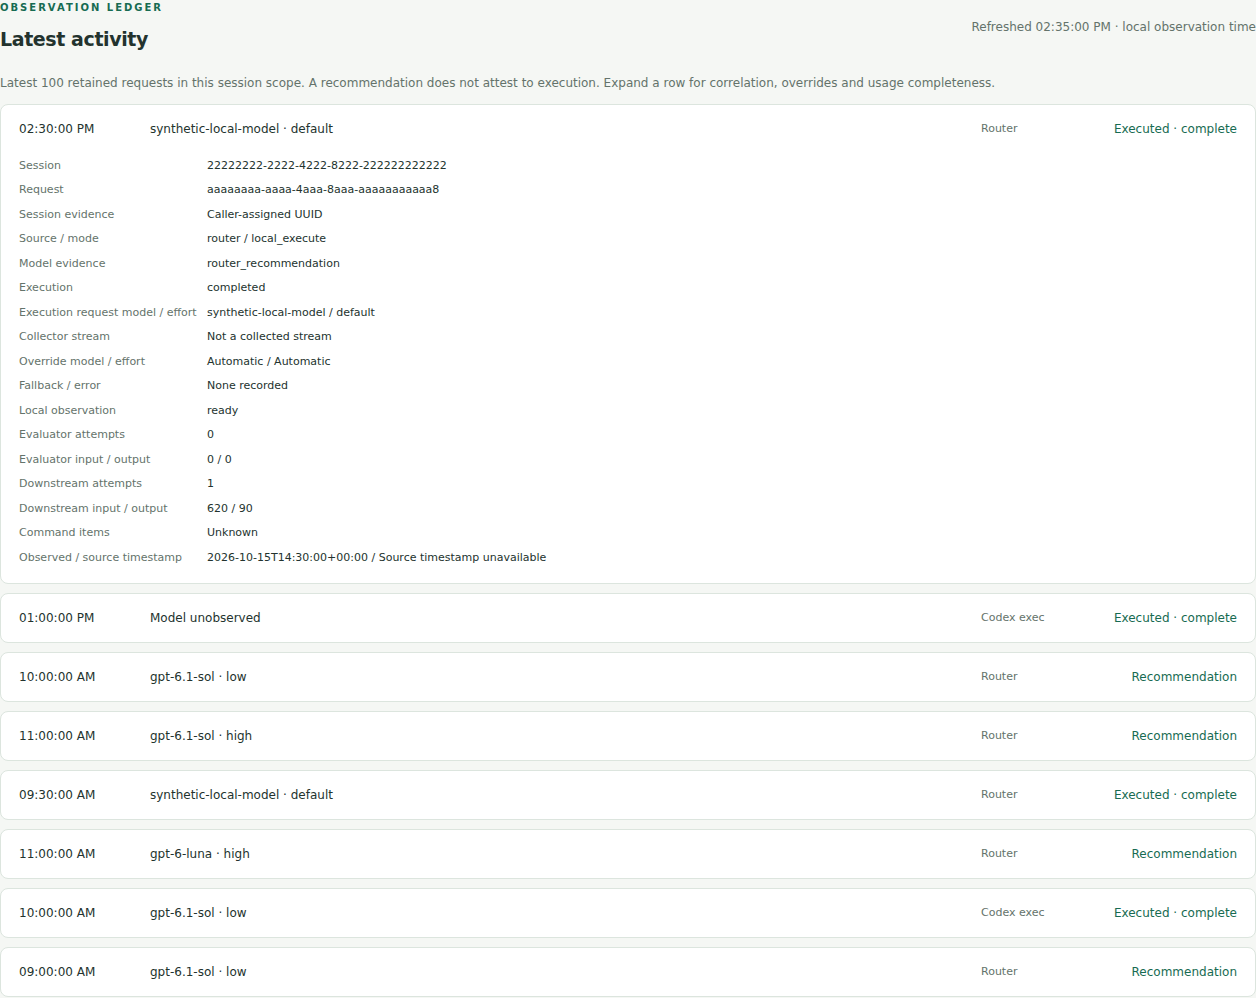
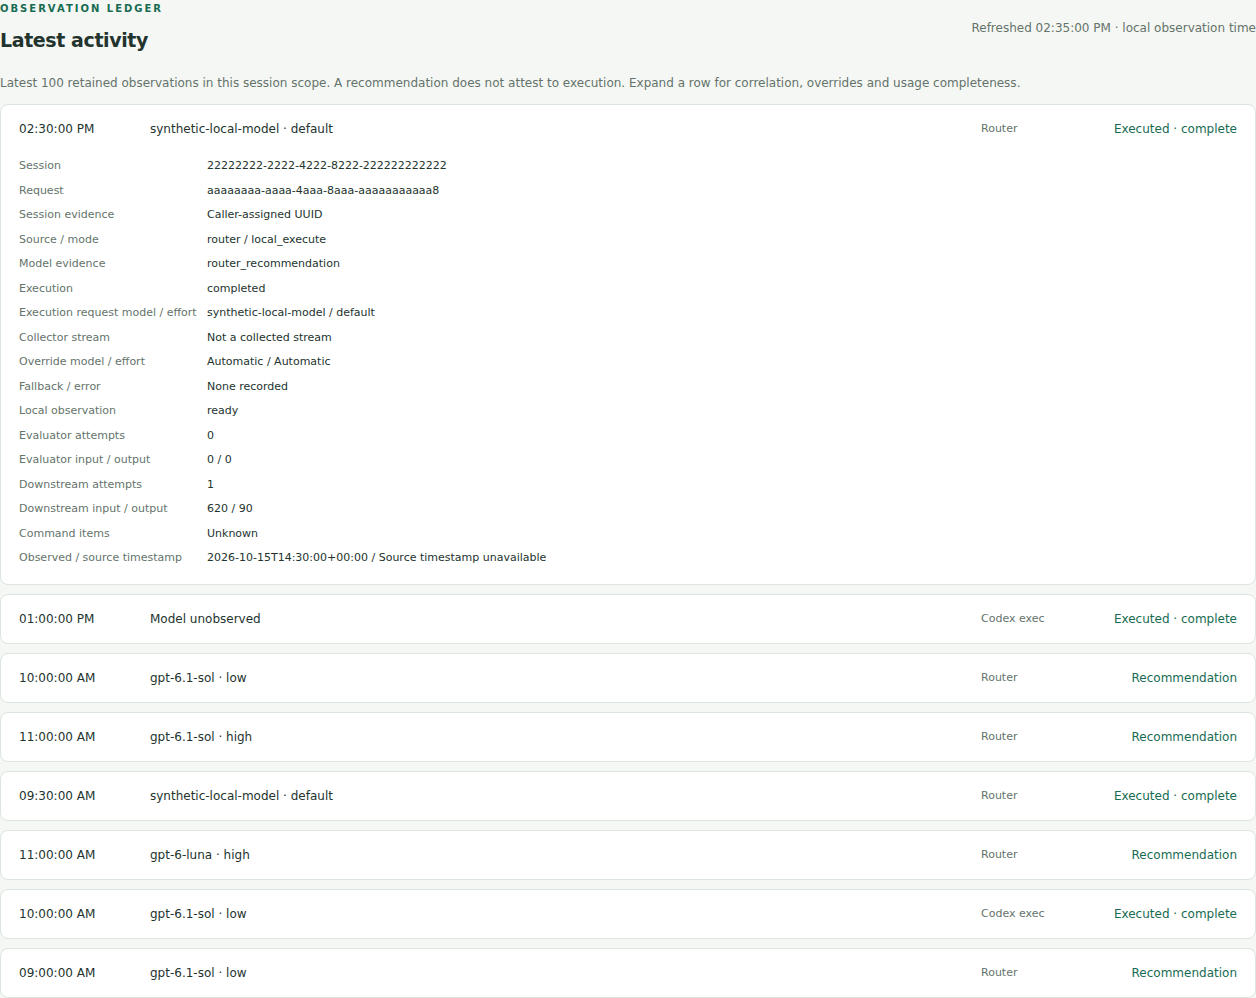
Publish verified synthetic preview and capture provenance

diff --git a/tests/dashboard_screenshot_fixture.py b/tests/dashboard_screenshot_fixture.py
@@ -55,7 +55,7 @@ def load_fixture():
 
 
 class ScreenshotStore(dashboard.Store):
-    """Use the production backend; only the displayed observation clock is synthetic."""
+    """Use the production backend with generated catalog metadata and observation clock."""
     def __init__(self, root, fixture):
         super().__init__(root)
         self.fixture_clock = fixture['snapshot_time']

diff --git a/references/dashboard-screenshots.md b/references/dashboard-screenshots.md
@@ -1,6 +1,6 @@
 # Dashboard screenshots
 
-These checked-in images are actual browser screenshots of the initial dashboard release, rendered by
+These checked-in images are actual browser screenshots of the account-aware dashboard, rendered by
 official Playwright with Chromium on Ubuntu GitHub Actions. All activity and
 configuration values come from the committed [synthetic fixture](../tests/fixtures/dashboard-screenshot.json).
 They contain two dummy session UUIDs and eight dummy request UUIDs, no real
@@ -10,26 +10,25 @@ measured billed cost remains unavailable.
 
 | View | Description |
 | --- | --- |
-| [Overview](../docs/images/dashboard-overview.png) | Eight requests, four completed executions, separate evaluator/downstream usage, retained activity and labeled estimates |
-| [Providers](../docs/images/dashboard-providers.png) | Independent saved provider settings, historical observations, retention controls and environment variable names |
+| [Overview](../docs/images/dashboard-overview.png) | Optimize Codex heading and router mark, separate OTel and router counts, eight router records and four recorded completions |
+| [Providers](../docs/images/dashboard-providers.png) | Seven synthetic reported models, multi-select eligibility, unverified access labels, independent provider settings and retention controls |
 | [Activity](../docs/images/dashboard-activity.png) | Synthetic request history and an expanded local execution with correlation and usage evidence |
 
-The checked-in images show HTML, CSS, JavaScript and four Python backend/routing
-files from `f1423124e5cca1012ef7d64e6a44f2bc84fa703a`. They remain historical
-examples; newer wording is verified by subsequent capture artifacts.
+The checked-in images show ten production HTML, CSS, JavaScript, SVG and Python
+backend/routing files from reviewed implementation
+`c2fd067ca46e57d56bcadfb6d4e95a08f06856f6`.
 The [machine-readable provenance](../docs/images/dashboard-provenance.json)
 records exact capture commit, file/image SHA-256 hashes, browser/version,
-dimensions, locale and time zone. The checked-in images were captured from GitHub's
-temporary PR merge `042f7281709fe2413b8fd1795104449f4f6aaaac` for branch head
-`f79192c136774eb19e481aadf4d801b34b5843a5` by
-[this CI run](https://github.com/peterjohannmedina/codex-model-routing/actions/runs/38820830785).
-Subsequent workflow runs explicitly check out the PR head commit.
-The current fixture helper pins all eight production files, including the OTel adapter, to
-`0f1b6ccdbd93d1e47f5ad8a1bcdf0f7d363d8141` and verifies their Git blob IDs before
-capture. No replacement markup or altered production backend is used for images.
+dimensions, locale and time zone. The checked-in images were captured from PR head
+`0012b8bbac92bc28f75cc33c6e07fad399bb7889` by
+[this CI run](https://github.com/peterjohannmedina/codex-model-routing/actions/runs/38983254555).
+The fixture helper pins all ten production files, including the catalog reader and
+OTel adapter, and verifies their Git blob IDs before capture. No replacement markup
+or altered production backend is used for images.
 
 The real backend serves temporary synthetic SQLite/config state on loopback to
-a fresh browser context. Only the displayed observation clock and fixture dates
+a fresh browser context. The catalog is generated fixture metadata rather than a
+live account query. Only the displayed observation clock and fixture dates
 are fixed to October 15, 2026; retention uses the capture's current time so later
 runs retain the demo records. Browser requests are restricted to the dashboard
 origin and required read/auth routes. Provider transports are patched to fail if

diff --git a/README.md b/README.md
@@ -149,13 +149,13 @@ is required for the native baseline.
 
 *Actual dashboard rendered in Chromium with synthetic demo data. The values are
 illustrative; no provider calls, real account activity or measured bills were used.
-These images document the initial dashboard release.*
+These images show the account-aware model controls and observation labels.*
 See [capture provenance and reproduction steps](references/dashboard-screenshots.md).
 
 <details>
 <summary>Provider controls and activity screenshots (synthetic demo)</summary>
 
-![Dashboard provider controls showing independent Decisions and local LLM settings, historical observations, and local history retention controls.](docs/images/dashboard-providers.png)
+![Dashboard model controls with seven reported models and multi-select checkboxes, plus independent Decisions and local LLM settings.](docs/images/dashboard-providers.png)
 
 *Saved provider settings and historical observations. Saving settings does not
 run inference or grant spending permission.*
